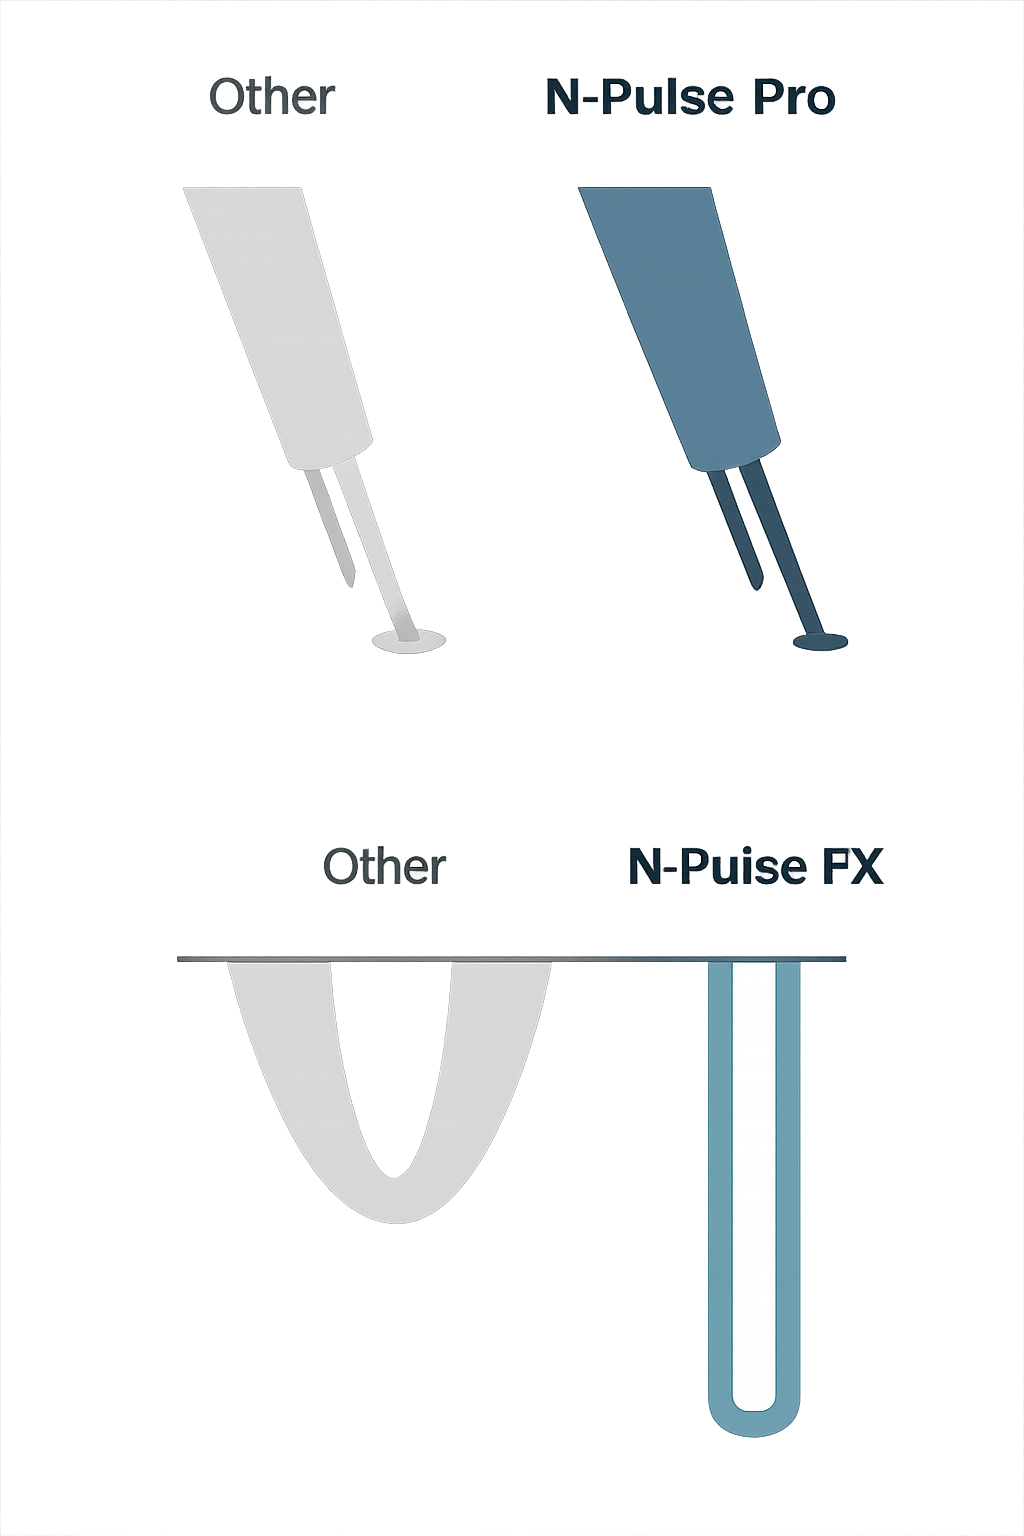
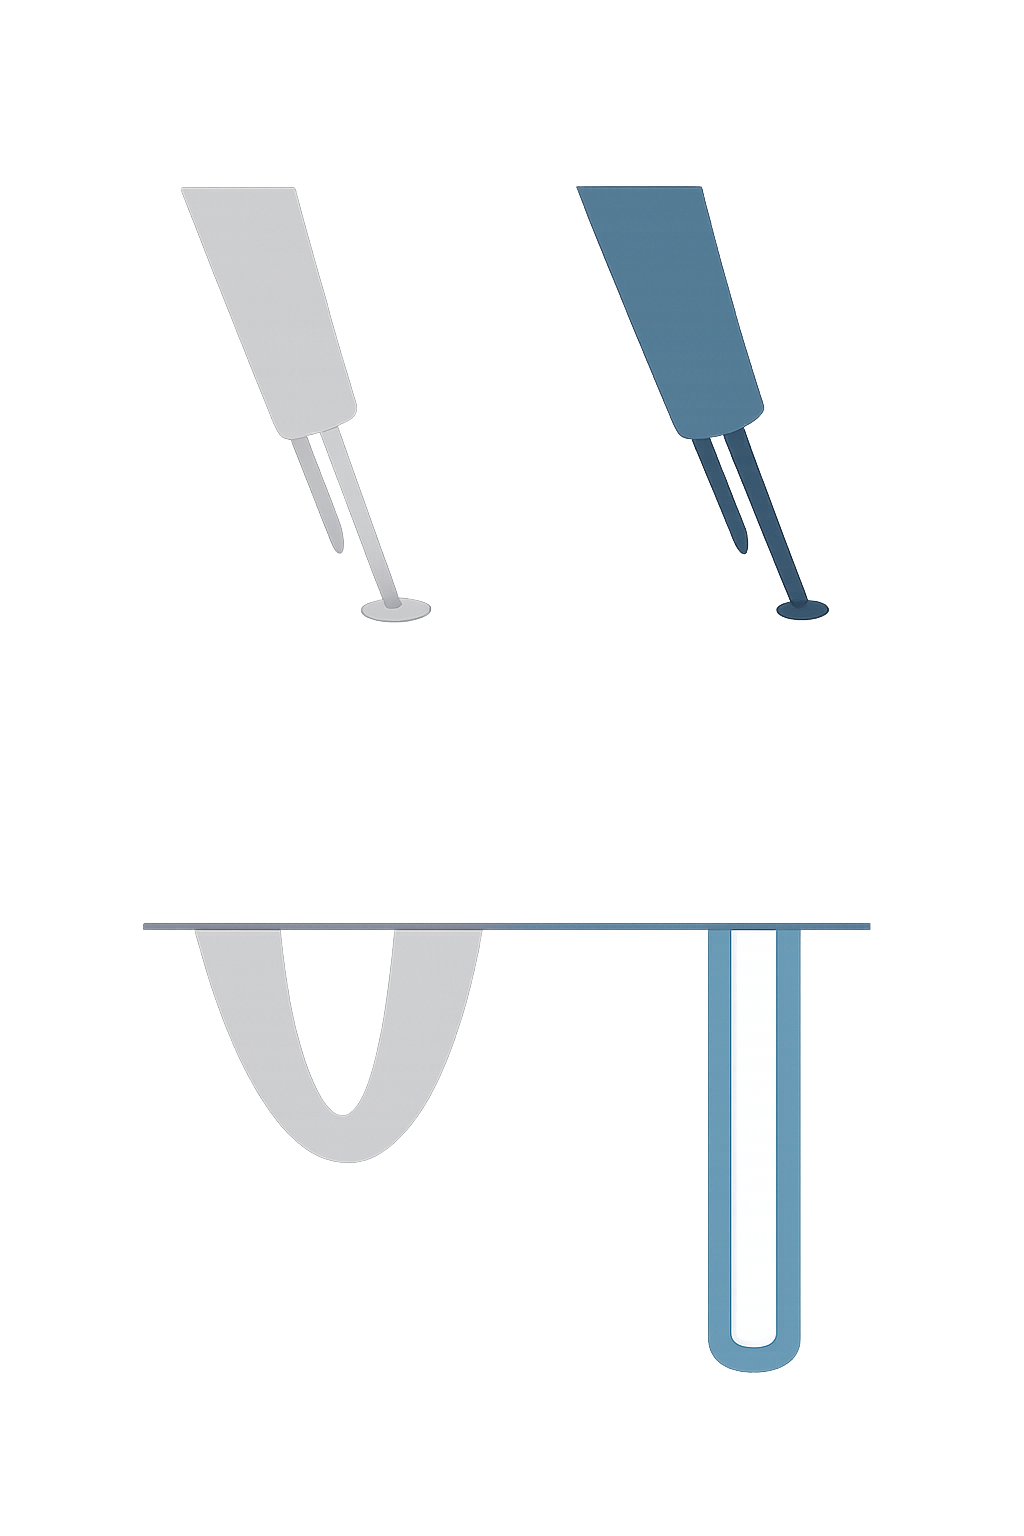
3

diff --git a/src/app/n-pulse/page.tsx b/src/app/n-pulse/page.tsx
@@ -241,7 +241,7 @@ export default function NPulsePage() {
                         />
                     </div>
 
-                    <div className="grid grid-cols-1 lg:grid-cols-12 gap-16 items-start">
+                    <div className="grid grid-cols-1 lg:grid-cols-12 gap-10 lg:gap-8 items-center">
                         {/* 좌측: 기술 리스트 */}
                         <div className="lg:col-span-6 space-y-12">
                             <motion.h2
@@ -290,84 +290,33 @@ export default function NPulsePage() {
                             </div>
                         </div>
 
-                        {/* 우측: 비교 일러스트 패널 */}
+                        {/* 우측: 비교 일러스트 (투명 배경 PNG에 맞게 테두리 단순화 및 제거) */}
                         <motion.div
                             initial={{ opacity: 0, scale: 0.95 }}
                             whileInView={{ opacity: 1, scale: 1 }}
                             transition={{ duration: 0.8, delay: 0.2 }}
                             viewport={{ once: true }}
-                            className="lg:col-span-6 relative self-start"
+                            className="lg:col-span-6 relative flex justify-center lg:justify-start"
                         >
-                            <div className="glass-panel p-5 md:p-7 relative overflow-hidden bg-tech-grid/30">
-                                <div className="absolute inset-0 bg-gradient-to-br from-primary/5 via-transparent to-transparent opacity-50" />
-
-                                <div className="relative z-10 space-y-4">
-                                    {/* Item 01: N-Pulse Pro */}
-                                    <div className="space-y-3 group">
-                                        <div className="flex justify-between items-center px-1">
-                                            <span className="text-slate-500 font-bold text-[9px] tracking-[0.4em] uppercase group-hover:text-primary/50 transition-colors">Pulse Analysis</span>
-                                            <span className="text-white font-black text-[10px] tracking-widest uppercase">N-PULSE PRO</span>
-                                        </div>
-                                        <div className="relative aspect-[21/10] glass-panel-dark bg-[#0a0f12] flex items-center justify-center p-2 border-white/5 group-hover:border-primary/20 transition-all duration-700 overflow-hidden">
-                                            <svg viewBox="0 0 500 200" className="w-full h-full opacity-90 group-hover:opacity-100 transition-opacity duration-700">
-                                                <text x="115" y="35" textAnchor="middle" className="fill-[#888888] text-[15px] font-medium tracking-wide">Other</text>
-                                                <text x="345" y="35" textAnchor="middle" className="fill-white text-[15px] font-bold tracking-wide">N-Pulse Pro</text>
-
-                                                {/* Left Side: Other (Light Grey) */}
-                                                <g transform="translate(80, 45)">
-                                                    {/* Body (Tilted Parallelogram) */}
-                                                    <polygon points="0,0 45,0 70,110 25,110" fill="#B3B3B3" />
-                                                    {/* Left thick tip */}
-                                                    <polygon points="37,110 47,110 56,150 46,150" fill="#B3B3B3" />
-                                                    {/* Right thin tip */}
-                                                    <polygon points="55,110 59,110 64,130 60,130" fill="#B3B3B3" />
-                                                    {/* Splattered energy trace */}
-                                                    <ellipse cx="51" cy="156" rx="16" ry="4" fill="#D4D4D4" />
-                                                </g>
-
-                                                {/* Right Side: N-Pulse Pro (Teal/Slate) */}
-                                                <g transform="translate(310, 45)">
-                                                    {/* Body */}
-                                                    <polygon points="0,0 45,0 70,110 25,110" fill="#446775" />
-                                                    {/* Left short thin tip */}
-                                                    <polygon points="36,110 40,110 45,130 41,130" fill="#446775" />
-                                                    {/* Main right beam (sharp, tapered point) */}
-                                                    <polygon points="46,110 56,110 62,155 60,155" fill="#446775" />
-                                                    {/* Precise target dot */}
-                                                    <ellipse cx="61" cy="158" rx="7" ry="2" fill="#6997A8" />
-                                                </g>
-                                            </svg>
-                                        </div>
-                                    </div>
-
-                                    <div className="h-px w-full bg-gradient-to-r from-transparent via-white/10 to-transparent" />
-
-                                    {/* Item 02: N-Pulse FX */}
-                                    <div className="space-y-3 group">
-                                        <div className="flex justify-between items-center px-1">
-                                            <span className="text-slate-500 font-bold text-[9px] tracking-[0.4em] uppercase group-hover:text-primary/50 transition-colors">Depth Control</span>
-                                            <span className="text-white font-black text-[10px] tracking-widest uppercase">N-PULSE FX</span>
-                                        </div>
-                                        <div className="relative aspect-[21/10] glass-panel-dark bg-[#0a0f12] flex items-center justify-center p-2 border-white/5 group-hover:border-primary/20 transition-all duration-700">
-                                            <svg viewBox="0 0 500 200" className="w-full h-full opacity-90 group-hover:opacity-100 transition-opacity duration-700">
-                                                <text x="130" y="35" textAnchor="middle" className="fill-[#888888] text-[15px] font-medium tracking-wide">Other</text>
-                                                <text x="345" y="35" textAnchor="middle" className="fill-white text-[15px] font-bold tracking-wide">N-Pulse FX</text>
-
-                                                {/* Connecting Top Boundary Line */}
-                                                <line x1="50" y1="60" x2="450" y2="60" stroke="#777" strokeWidth="1.5" />
-
-                                                {/* Left Side: Other (Thick curved U-shape) */}
-                                                <path d="M 60,60 C 90,210 170,210 200,60 L 170,60 C 150,150 110,150 90,60 Z" fill="#B3B3B3" />
-
-                                                {/* Right Side: N-Pulse FX (Deep, narrow) */}
-                                                <g transform="translate(325, 60)">
-                                                    <path d="M 0,0 L 0,110 A 20,20 0 0 0 40,110 L 40,0 Z" fill="#548C9E" />
-                                                    <path d="M 16,0 L 16,108 A 4,4 0 0 0 24,108 L 24,0 Z" fill="white" />
-                                                </g>
-                                            </svg>
-                                        </div>
-                                    </div>
+                            {/* 푸른 빛의 이중 테두리/그라데이션 싹 제거, 깔끔한 단일 컨테이너로 통일 */}
+                            <div className="relative w-full max-w-sm lg:max-w-md lg:ml-6 group rounded-xl border border-white/10 bg-black/40 p-6 md:p-8 hover:border-primary/60 hover:shadow-[0_0_30px_rgba(0,183,241,0.25)] hover:scale-[1.02] transition-all duration-500 cursor-pointer overflow-hidden">
+                                {/* 텍스트 라벨 오버레이 (상단) */}
+                                <div className="absolute top-8 left-0 w-full z-20 pointer-events-none">
+                                    <span className="absolute left-[30%] -translate-x-1/2 text-[#888888] text-sm md:text-base font-medium tracking-tight">Other</span>
+                                    <span className="absolute left-[59%] -translate-x-1/2 text-white text-sm md:text-base font-black tracking-tight">N-Pulse Pro</span>
                                 </div>
+
+                                {/* 텍스트 라벨 오버레이 (하단) */}
+                                <div className="absolute top-[49%] left-0 w-full z-20 pointer-events-none">
+                                    <span className="absolute left-[37%] -translate-x-1/2 text-[#888888] text-sm md:text-base font-medium tracking-tight">Other</span>
+                                    <span className="absolute left-[66%] -translate-x-1/2 text-white text-sm md:text-base font-black tracking-tight">N-Pulse FX</span>
+                                </div>
+
+                                <img
+                                    src="/images/npulse/advanced.png"
+                                    alt="N-Pulse Advanced Technology"
+                                    className="w-full h-auto max-h-[480px] object-contain opacity-95 group-hover:opacity-100 transition-all duration-700 relative z-10"
+                                />
                             </div>
                         </motion.div>
                     </div>

diff --git a/src/app/u-pulse/page.tsx b/src/app/u-pulse/page.tsx
@@ -931,7 +931,7 @@ export default function UPulsePage() {
                 {/* 30W Image Column */}
                 <div className="col-span-4 md:col-span-3">
                   <div className={`aspect-square relative overflow-hidden transition-all duration-500 ${idx === 4 ? '' : 'glass-panel-dark border-white/5 group-hover:border-white/20'}`}>
-                    <Image 
+                    <Image
                       src={row.img30}
                       alt={`30W Result - ${row.label}`}
                       fill
@@ -946,7 +946,7 @@ export default function UPulsePage() {
                     <div className="h-px flex-1 border-t border-dashed border-white" />
                     <div className="h-px flex-1 border-t border-dashed border-white" />
                   </div>
-                  
+
                   <div className="bg-white/5 border border-white/10 px-3 md:px-6 py-1 md:py-2 mb-2 group-hover:border-primary/40 group-hover:bg-primary/5 transition-all duration-300">
                     <span className="text-white font-black text-[11px] md:text-sm tracking-widest whitespace-nowrap group-hover:text-primary transition-colors">{row.label}</span>
                   </div>
@@ -956,7 +956,7 @@ export default function UPulsePage() {
                 {/* U-Pulse Image Column */}
                 <div className="col-span-4 md:col-span-3">
                   <div className={`aspect-square relative overflow-hidden transition-all duration-500 shadow-[0_10px_30px_rgba(0,0,0,0.5)] ${idx === 4 ? '' : 'glass-panel-dark border-white/5 group-hover:border-primary/40'}`}>
-                    <Image 
+                    <Image
                       src={row.imgUp}
                       alt={`U-Pulse Result - ${row.label}`}
                       fill
